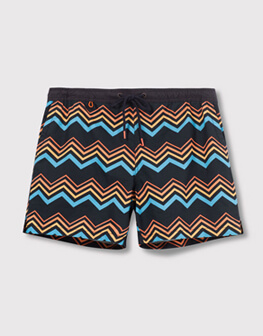
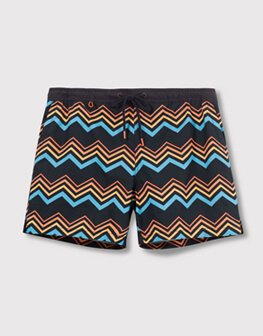
optimized some img and w3c validation

Changed region(s): [[0.1217, 0.2976, 0.8821, 0.506], [0.0913, 0.506, 0.9125, 0.744], [0.0913, 0.625, 0.4867, 0.744]]

diff --git a/app/index.html b/app/index.html
@@ -26,7 +26,7 @@
 
 	<style>body { opacity: 0; overflow-x: hidden; } html { background-color: #fff; }</style>
 
-	<script src="https://use.fontawesome.com/3d1c155147.js"></script>
+	
 
 </head>
 
@@ -45,13 +45,13 @@
 				<div class="top-dropdowns">
 					<div id="dd" class="wrapper-dropdown drop-language">EN <i class="fa fa-angle-down"></i>
 						<ul class="dropdown">
-							<li><a href="#"></i>RU</a></li>
+							<li><a href="#">RU</a></li>
 							<li><a href="#">UA</a></li>
 						</ul>
 					</div>
 					<div id="dd2" class="wrapper-dropdown drop-currency">Dollars <i class="fa fa-angle-down"></i>
 						<ul class="dropdown">
-							<li><a href="#"></i>Euro</a></li>
+							<li><a href="#">Euro</a></li>
 							<li><a href="#">UAH</a></li>
 						</ul>
 					</div>
@@ -210,8 +210,8 @@
 
 
 	</footer>
-	
-
+		
+	<script src="https://use.fontawesome.com/3d1c155147.js"></script>
 
 	<link rel="stylesheet" href="css/main.min.css">
 	<script src="js/scripts.min.js"></script>

diff --git a/app/sass/_libs.sass b/app/sass/_libs.sass
@@ -1,3 +1,3 @@
 @import "../libs/bootstrap-grid/bootstrap-grid"
-@import "../libs/bootstrap/dist/css/bootstrap.min.css"
+@import "../libs/bootstrap/dist/css/bootstrap.min"
 // @import "../libs/fontawesome/css/font-awesome.min"
